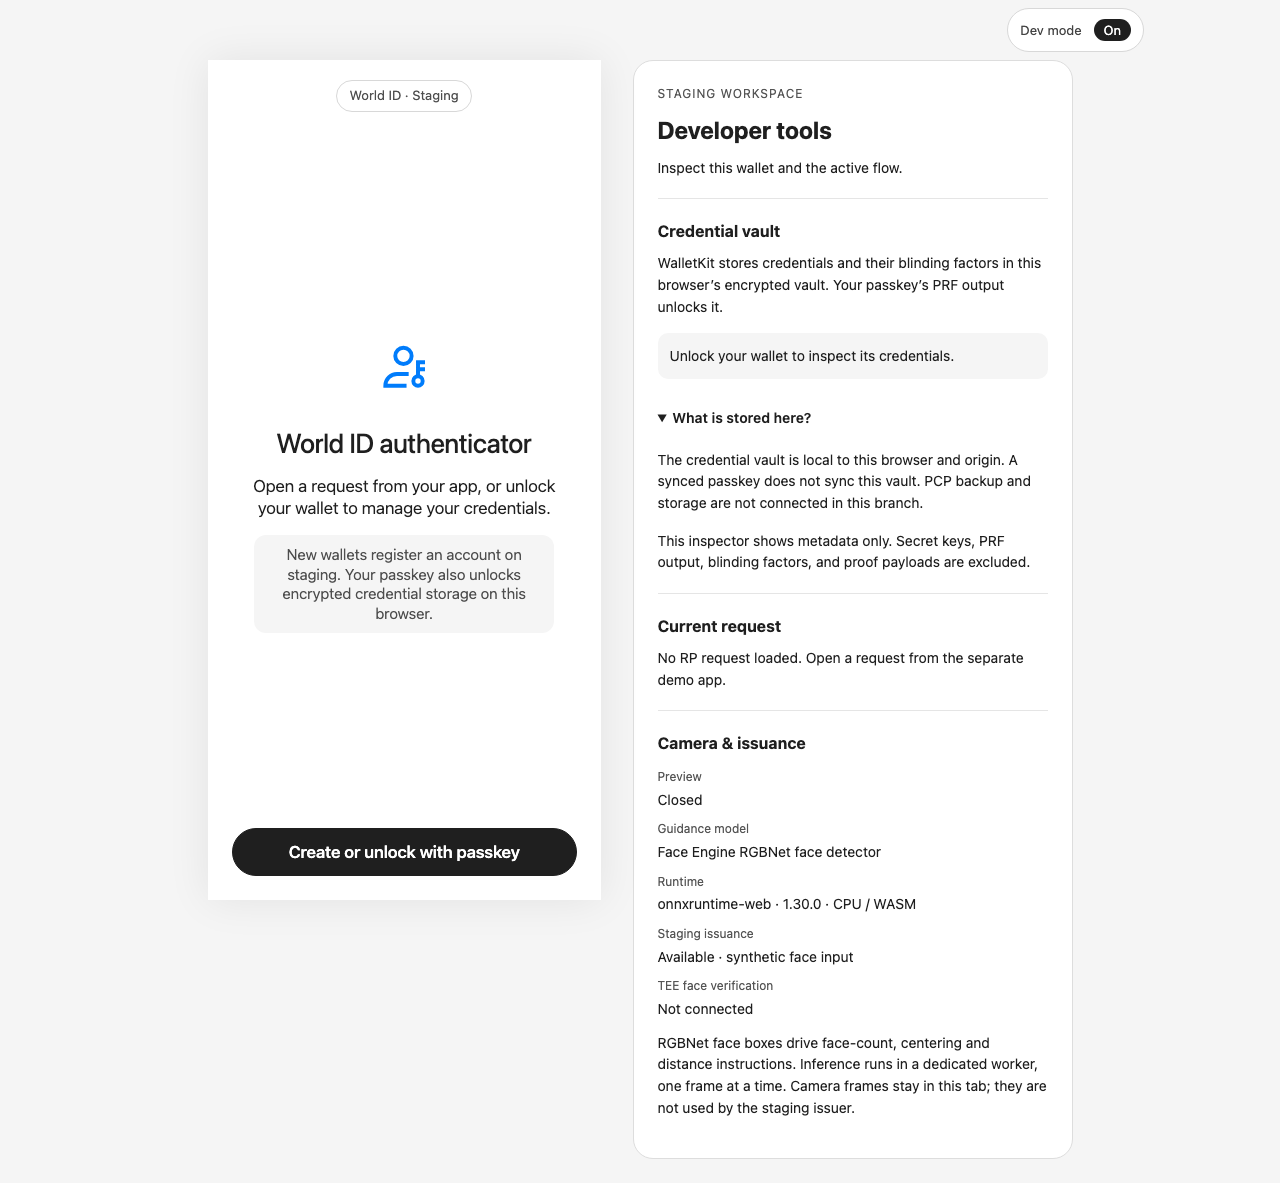
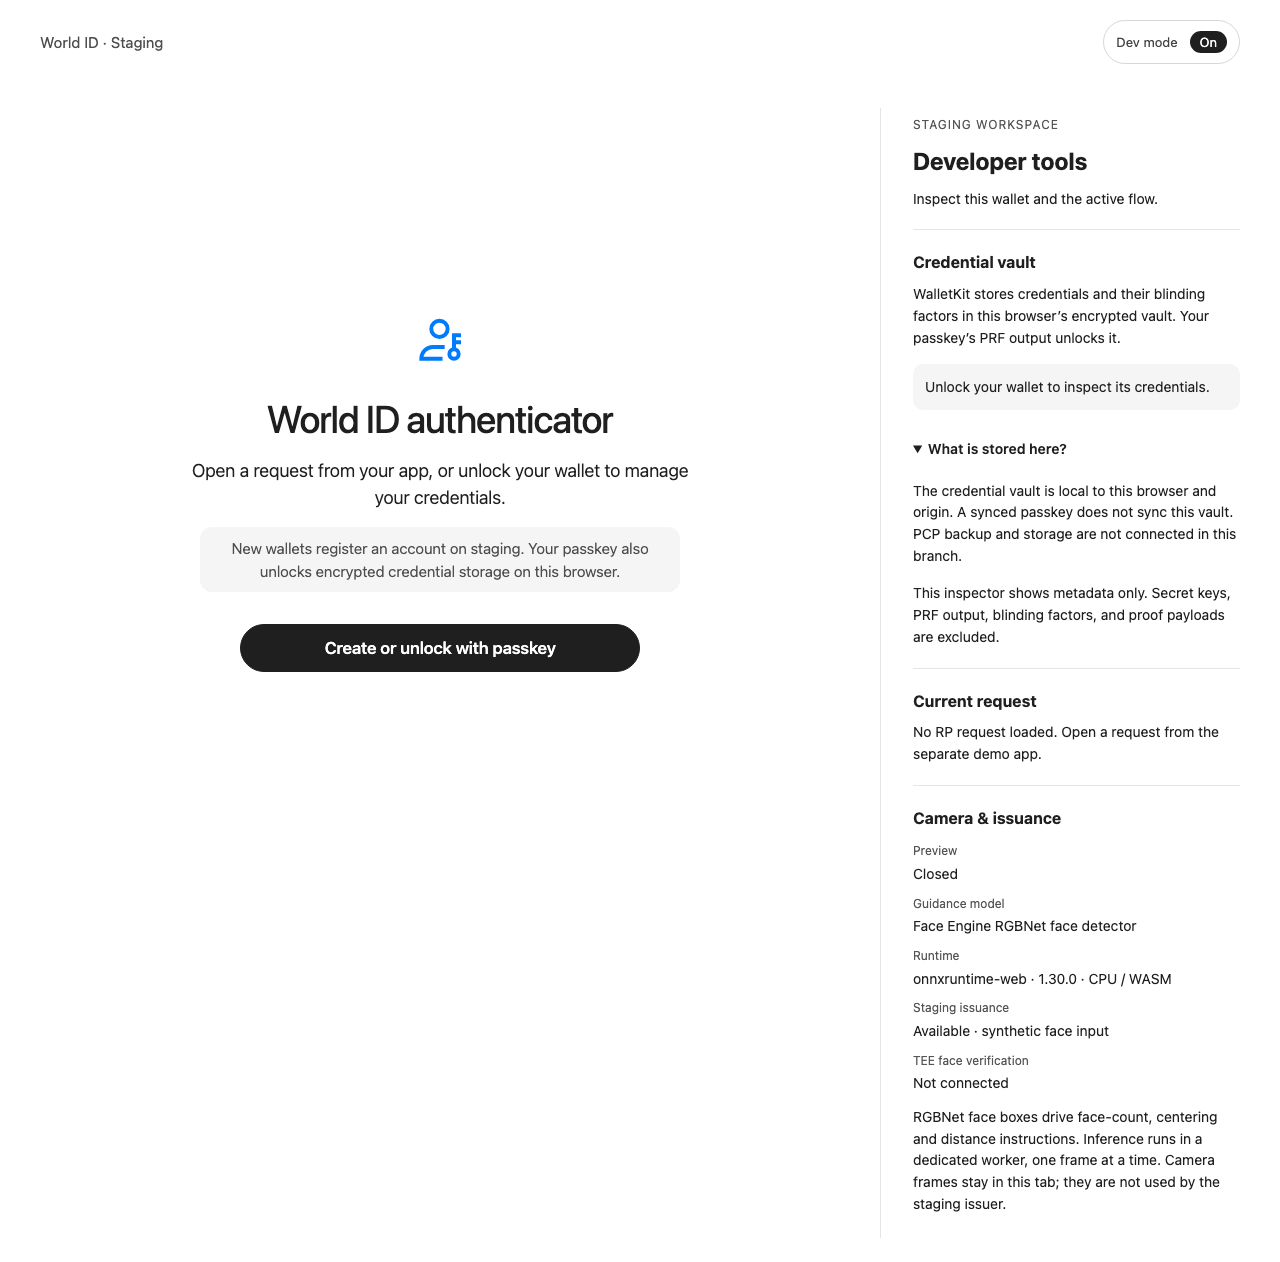
Adapt authenticator layout to desktop and mobile browsers

diff --git a/apps/authenticator/src/styles/app.css b/apps/authenticator/src/styles/app.css
@@ -1,6 +1,6 @@
 :root {
   color: #1f1f1f;
-  background: #f5f5f5;
+  background: #fff;
   font-family: "World Pro MVP", -apple-system, BlinkMacSystemFont, "Segoe UI", sans-serif;
   font-synthesis: none;
   text-rendering: optimizeLegibility;
@@ -25,7 +25,7 @@ body,
 }
 
 body {
-  background: #f5f5f5;
+  background: var(--surface-page);
 }
 
 button,
@@ -54,7 +54,8 @@ button:disabled {
   position: relative;
   display: flex;
   flex-direction: column;
-  width: min(100%, 393px);
+  width: 100%;
+  min-width: 0;
   min-height: 100svh;
   min-height: 100dvh;
   margin: 0 auto;
@@ -69,11 +70,9 @@ button:disabled {
 .staging-banner {
   z-index: 5;
   align-self: center;
-  max-width: calc(100% - 64px);
+  max-width: 100%;
   margin: 0;
-  padding: 7px 12px;
-  border: 1px solid #d8d8d8;
-  border-radius: 999px;
+  padding: 0;
   color: #4e4e4e;
   background: rgb(255 255 255 / 92%);
   font-size: 13px;
@@ -500,19 +499,13 @@ h1:focus {
   }
 }
 
-@media (min-width: 394px) {
-  .app-main {
-    box-shadow: 0 0 40px rgb(0 0 0 / 8%);
-  }
-}
-
-.dev-mode-bar { display: flex; justify-content: flex-end; max-width: 1040px; margin: 0 auto; padding: 8px 16px; }
+.dev-mode-bar { display: flex; justify-content: space-between; align-items: center; gap: 16px; max-width: 1440px; margin: 0 auto; padding: max(12px, env(safe-area-inset-top)) 24px 12px; }
 .dev-mode-switch { display: flex; align-items: center; gap: 12px; padding: 0 12px; border: 1px solid #d8d8d8; border-radius: 999px; background: #fff; color: #444; font-size: 13px; }
 .dev-mode-switch span { border-radius: 999px; padding: 3px 10px; background: #eee; }
 .dev-mode-switch[aria-checked="true"] span { background: #1f1f1f; color: #fff; }
-.authenticator-shell .app-main { min-height: calc(100svh - 60px); min-height: calc(100dvh - 60px); }
-.authenticator-layout { margin: 0 auto; }
-.developer-panel { min-width: 0; margin: 24px 16px; padding: 24px; border: 1px solid #ddd; border-radius: 20px; background: #fff; font-size: 14px; line-height: 1.55; overflow-wrap: anywhere; }
+.authenticator-shell .app-main { min-height: calc(100svh - 68px); min-height: calc(100dvh - 68px); }
+.authenticator-layout { max-width: 1440px; margin: 0 auto; }
+.developer-panel { min-width: 0; margin: 24px 0 0; padding: 24px; border-top: 1px solid #e5e5e5; background: #fff; font-size: 14px; line-height: 1.55; overflow-wrap: anywhere; }
 .developer-panel h2 { font-size: 24px; margin: 0 0 8px; }
 .developer-panel h3 { font-size: 16px; margin: 0 0 8px; }
 .developer-panel p { margin: 8px 0 16px; }
@@ -528,9 +521,23 @@ h1:focus {
 .dev-toolbar { display: flex; align-items: center; flex-wrap: wrap; gap: 12px; justify-content: space-between; }
 .dev-credential { border-top: 1px solid #eee; padding-bottom: 8px; }
 .dev-notice, .dev-confirm { background: #f5f5f5; padding: 12px; border-radius: 10px; }
-@media (min-width: 850px) {
-  .authenticator-shell--dev .authenticator-layout { display: grid; grid-template-columns: 393px minmax(0, 440px); gap: 32px; max-width: 913px; padding: 0 24px; align-items: start; }
-  .developer-panel { margin: 0 0 24px; }
+@media (min-width: 768px) {
+  .dev-mode-bar { padding: 20px 40px; }
+  .staging-banner { font-size: 15px; }
+  .authenticator-shell .app-main { min-height: calc(100svh - 84px); min-height: calc(100dvh - 84px); padding: 64px 40px; justify-content: center; }
+  .screen-content { flex: 0; padding: 0; }
+  .centered-layout { max-width: 560px; gap: 28px; padding-inline: 0; }
+  h1 { font-size: 38px; letter-spacing: -1px; }
+  .message-block > p { max-width: 500px; font-size: 18px; line-height: 1.5; }
+  .message-block .detail-copy { max-width: 480px; font-size: 15px; }
+  .actions { max-width: 400px; margin: 32px auto 0; padding-top: 0; }
+  .developer-panel { max-width: 640px; margin: 24px auto; }
+  .authenticator-shell .app-main--camera-preview { justify-content: flex-start; padding-top: 24px; }
+}
+@media (min-width: 1100px) {
+  .authenticator-shell--dev .authenticator-layout { display: grid; grid-template-columns: minmax(0, 1fr) 360px; gap: 40px; padding: 0 40px; align-items: start; }
+  .authenticator-shell--dev .app-main { padding-inline: 0; }
+  .developer-panel { max-width: none; margin: 24px 0; padding: 8px 0 8px 32px; border-top: 0; border-left: 1px solid #e5e5e5; }
 }
 
 @media (prefers-reduced-motion: reduce) {

diff --git a/apps/authenticator/src/App.tsx b/apps/authenticator/src/App.tsx
@@ -179,9 +179,8 @@ export function AuthenticatorAppV1({ services = defaults }: { services?: typeof 
   });
 
   return <div className={`authenticator-shell${devMode ? " authenticator-shell--dev" : ""}`}>
-    <header className="dev-mode-bar"><button className="dev-mode-switch" role="switch" aria-checked={devMode} aria-controls={devMode ? "developer-panel" : undefined} onClick={() => setDevMode(value => !value)}>Dev mode <span aria-hidden="true">{devMode ? "On" : "Off"}</span></button></header>
+    <header className="dev-mode-bar"><p className="staging-banner">World ID · Staging</p><button className="dev-mode-switch" role="switch" aria-checked={devMode} aria-controls={devMode ? "developer-panel" : undefined} onClick={() => setDevMode(value => !value)}>Dev mode <span aria-hidden="true">{devMode ? "On" : "Off"}</span></button></header>
     <div className="authenticator-layout"><main className={`app-main${preview && screen === "enroll" ? " app-main--camera-preview" : ""}`}>
-    <p className="staging-banner">World ID · Staging</p>
     <div className="screen-content"><div className="centered-layout">
       {preview && screen === "enroll" ? <CameraPreview /> : <img className="hero-icon" src={`/assets/figma/${screen === "done" ? "success-emblem" : "person-key-blue"}.svg`} alt="" />}
       <div className="message-block">

diff --git a/tests/integration/browser/authenticator.browser.spec.ts b/tests/integration/browser/authenticator.browser.spec.ts
@@ -12,9 +12,12 @@ if (!("bun" in process.versions)) {
     await expect(page.locator("body")).not.toContainText("Zoom");
     expect(external).toEqual([]);
     expect(await page.evaluate(() => ({ local: Object.keys(localStorage), session: Object.keys(sessionStorage) }))).toEqual({ local: [], session: [] });
-    for (const viewport of [{ width: 320, height: 568 }, { width: 393, height: 852 }, { width: 1280, height: 900 }]) {
+    for (const viewport of [{ width: 320, height: 568 }, { width: 393, height: 852 }, { width: 768, height: 1024 }, { width: 1280, height: 900 }]) {
       await page.setViewportSize(viewport);
       expect(await page.evaluate(() => document.documentElement.scrollWidth <= document.documentElement.clientWidth)).toBe(true);
+      expect(Math.round((await page.getByRole("main").boundingBox())!.width)).toBe(viewport.width);
+      await expect(page.locator("body")).toHaveCSS("background-color", "rgb(255, 255, 255)");
+      await expect(page.getByRole("main")).toHaveCSS("box-shadow", "none");
       await page.screenshot({ path: `test-results/screenshots/${info.project.name}-home-${viewport.width}.png`, fullPage: true });
     }
   });
